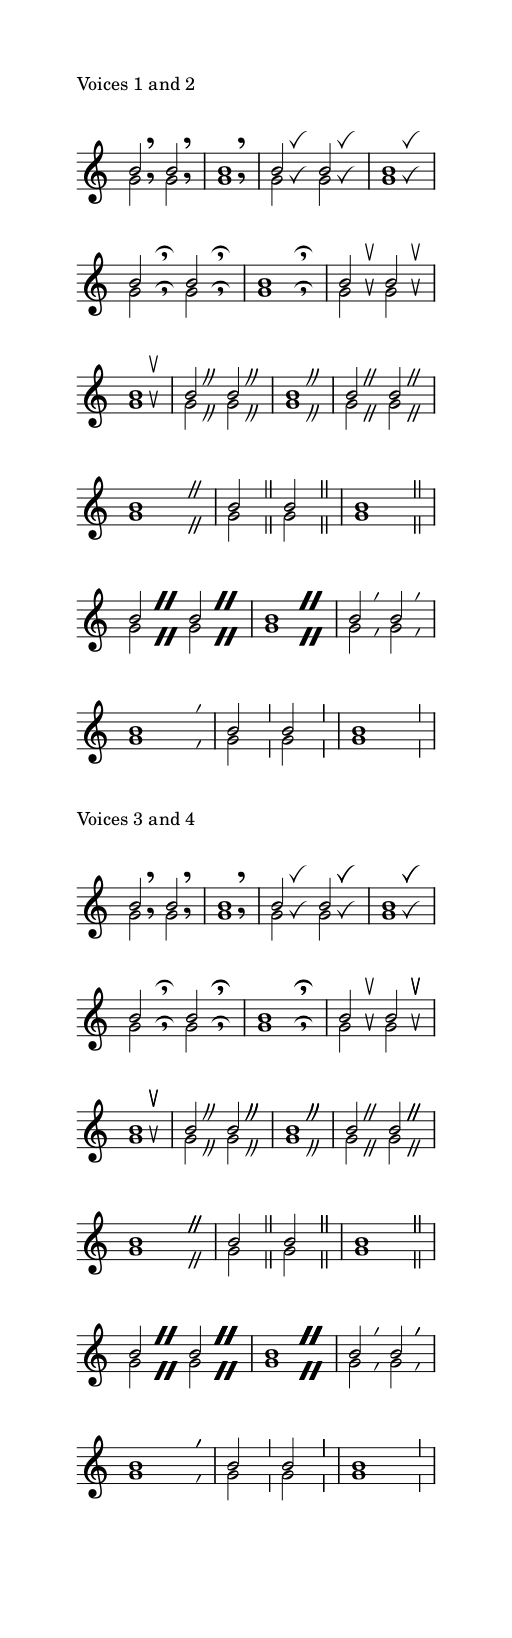
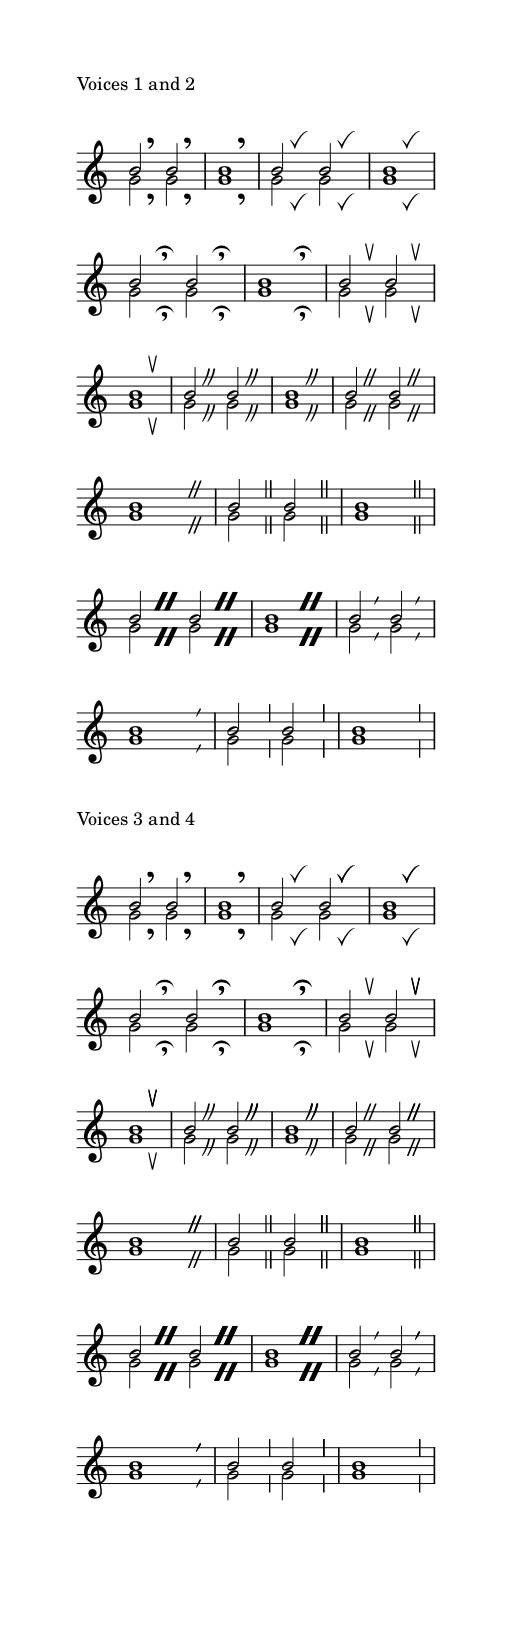
Fix lower breath mark position
also center caesuras on staff line and
add special handling for chant caesura

Backport of #32677

diff --git a/libmscore/breath.cpp b/libmscore/breath.cpp
@@ -66,13 +66,22 @@ void Breath::layout()
       {
       bool palette = (!staff() || track() == -1);
       if (!palette) {
-            int voiceOffset = placeBelow() * (staff()->lines(tick()) - 1) * spatium();
-            if (isCaesura())
-                  setPos(rxpos(), spatium() + voiceOffset);
-            else if ((score()->styleSt(Sid::musicalSymbolFont) == "Emmentaler") && (symId() == SymId::breathMarkComma))
-                  setPos(rxpos(), 0.5 * spatium() + voiceOffset);
-            else
-                  setPos(rxpos(), -0.5 * spatium() + voiceOffset);
+            const qreal voiceOffset = placeBelow() ? (staff()->lines(tick()) - 1) * spatium() : 0.0;
+            if (isCaesura()) {
+                  // special handling for chant caesura, which is higher than the other ones
+                  if (symId() == SymId::chantCaesura)
+                        setPos(rxpos(), 1.5 * spatium() + voiceOffset);
+                  else
+                        setPos(rxpos(), symHeight(symId()) / 2 + voiceOffset);
+                  }
+            else if ((score()->styleSt(Sid::musicalSymbolFont) == "Emmentaler") && (symId() == SymId::breathMarkComma)) {
+                  const qreal shift = placeBelow() ? -0.5 * spatium() + symHeight(symId()) : 0.5 * spatium();
+                  setPos(rxpos(), shift + voiceOffset);
+                  }
+            else {
+                  const qreal shift = placeBelow() ? 0.5 * spatium() + symHeight(symId()) : -0.5 * spatium();
+                  setPos(rxpos(), shift + voiceOffset);
+                  }
             }
       setbbox(symBbox(_symId));
       }
